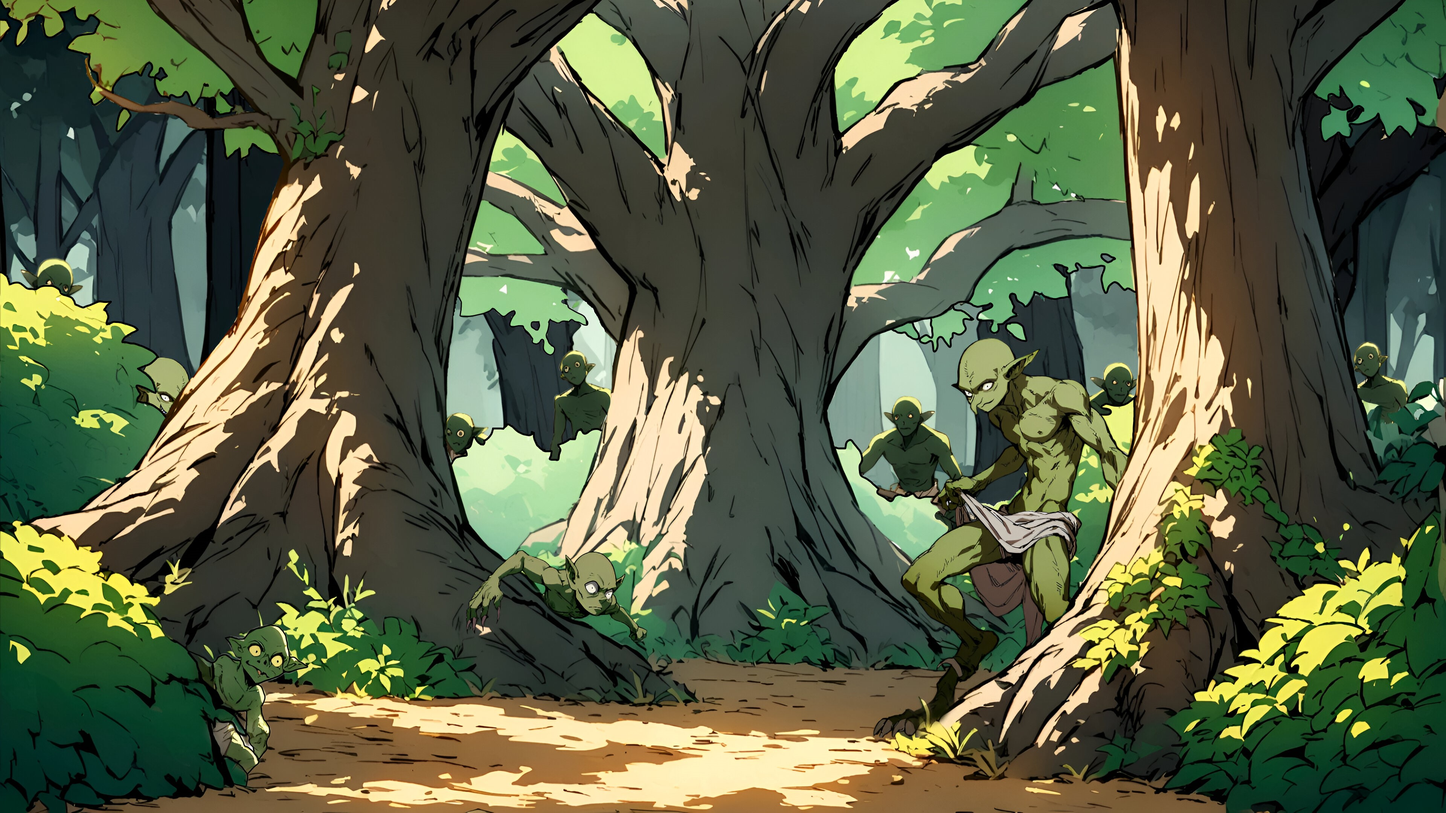
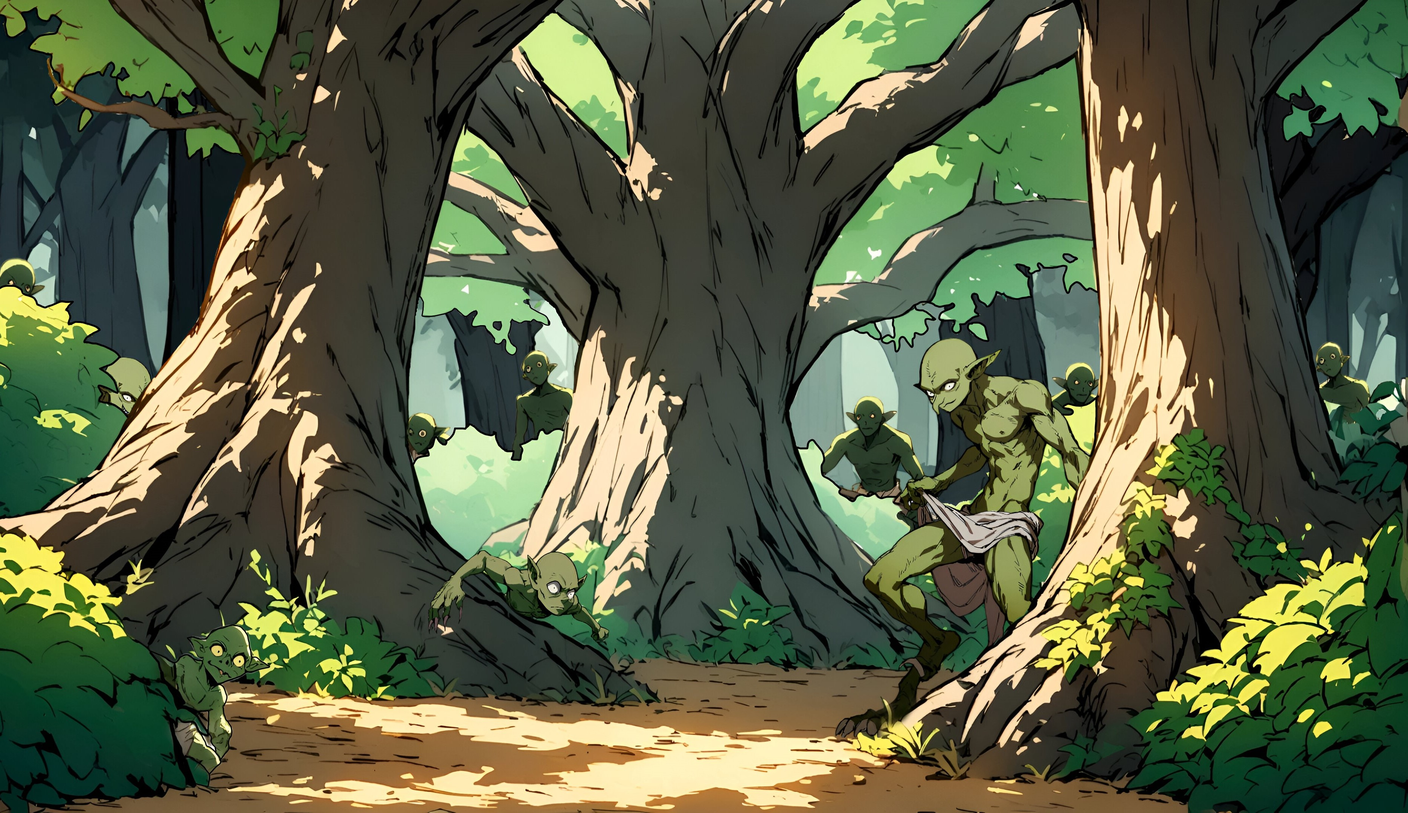
idk

diff --git a/dungeon game/src/Game/Fairy.jsx b/dungeon game/src/Game/Fairy.jsx
@@ -2,7 +2,9 @@ import '../css/game.css';
 import '../css/index.css';
 import { useState, useEffect } from 'react';
 import background from '../assets/Backgrounds/background_forest.png';
-import background_2 from '../assets/Backgrounds/background_goblin.jpeg';
+import background_2 from '../assets/Backgrounds/background_goblin1.jpeg';
+import lena from '../assets/Characters/lena_talk.png';
+import Goblin from '../assets/Characters/Goblin_talk.png';
 
 function Fairy(props){
 
@@ -56,6 +58,7 @@ function Fairy(props){
     const [hide, setHide] = useState(Array(5).fill(false));
     const [opacity, setOpacity] = useState(0);
     const [status, setStatus] = useState();
+    const [Character, setCharacter] = useState();
 
     //takes previous state and then adds on new state and updates
     function UpdateHide(index, value){
@@ -92,8 +95,12 @@ function Fairy(props){
         props.setBgcolor(counter ? "rgba(0, 0, 0, 0.7)" : "");
         props.setBorder(counter ? "2px solid red" : "");
         
+        if(props.count === 16){
+            UpdateHide(1, true);
+        }
 
         if(props.count === 16 || props.count === 18){  
+            setCharacter(Goblin);
             const counter = (props.count === 16 || props.count === 18);
             props.setButtonColor(counter ? "red" : "");
             props.setColor(counter ? "RED" : "");
@@ -102,6 +109,7 @@ function Fairy(props){
         }
 
         if(props.count === 17){  
+            setCharacter(lena);
             const counter = (props.count === 17);
             props.setButtonColor(counter ? "#00BFFF" : "");
             props.setColor(counter ? "#1E90FF" : "");
@@ -146,7 +154,6 @@ function Fairy(props){
     function nextSet(){
         props.background(background_2);
         UpdateHide(0, false);
-        UpdateHide(1, true);
         props.hide(true);
         props.hide1(false);
         localStorage.removeItem('checkpoint');
@@ -161,8 +168,8 @@ function Fairy(props){
             </div>
           )}
         {hide[1] && (
-            <div id='game2'>
-                <h1>Testing</h1>
+            <div id='Char_img'>
+                <img src={Character} alt="" />
             </div>
         )}
         </>

diff --git a/dungeon game/src/css/game.css b/dungeon game/src/css/game.css
@@ -292,7 +292,7 @@
     }
 }
 
-#game2{
+#Char_img{
     z-index: 1;
     position: absolute;
     top: 50%;
@@ -301,5 +301,11 @@
     text-align: center;
     display: flex;
     flex-direction: row;
+}
+
+#Char_img img{
+    z-index: 1;
+    width: 25rem;
+    transform: translateY(-2.8rem);
 }
 
